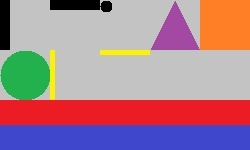
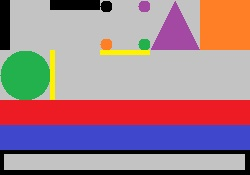
custom message

diff --git a/game.js b/game.js
@@ -6,12 +6,17 @@ var drawingSurface = canvas.getContext("2d");
 var sprites = [];
 var missiles = [];
 var assetsToLoad = [];
+var manaSprites = [];
 
 
 
 
 sprites.push(line);
-
+manaSprites.push(mana);
+manaSprites.push(mbTop);
+manaSprites.push(mbBottom);
+manaSprites.push(mbLeft);
+manaSprites.push(mbRight);
 
 
 var image = new Image();
@@ -62,12 +67,17 @@ window.addEventListener("keydown", function(event)
     break;
 
     case SPACE:
+    if (mana.swx < 25)
+    {
+      break;
+    }
     if (!moveDown && !moveUp && !moveLeft && !moveRight)
     {
       break;
     }
     if(!spaceKeyIsDown)
     {
+      mana.swx = mana.swx - 25;
       lineShoot = true;
       spaceKeyIsDown = true;
 
@@ -76,12 +86,17 @@ window.addEventListener("keydown", function(event)
     break;
 
     case Z:
+    if (mana.swx < 100)
+    {
+      break;
+    }
     if (!moveDown && !moveUp && !moveLeft && !moveRight)
     {
       break;
     }
     if(!zIsDown)
     {
+      mana.swx = mana.swx - 100;
       lineShoot = true;
       zIsDown = true;
 
@@ -89,8 +104,13 @@ window.addEventListener("keydown", function(event)
     break;
 
     case X:
+    if (mana.swx < 100)
+    {
+      break;
+    }
     if (!xIsDown)
     {
+      mana.swx = mana.swx - 100;
       lineShoot = true;
       xIsDown = true;
     }
@@ -370,8 +390,13 @@ for(var i = 0; i < missiles.length; i++)
 }
 
 }
-
-
+function manaIncrease(){
+  if (mana.swx < 250)
+  {
+  mana.swx++;
+  }
+}
+setInterval(manaIncrease, 40);
 
 function update()
 {
@@ -391,6 +416,7 @@ switch(gameState)
   endGame();
   break;
 
+
 }
 
 function render()
@@ -402,6 +428,18 @@ function render()
     for (var i = 0; i < sprites.length; i++)
     {
       var sprite = sprites[i];
+
+
+      drawingSurface.drawImage(image, sprite.sx, sprite.sy, sprite.swx, sprite.swy, sprite.x, sprite.y, sprite.swx, sprite.swy);
+    }
+
+  }
+
+  if(manaSprites.length !== 0)
+  {
+    for (var i = 0; i < manaSprites.length; i++)
+    {
+      var sprite = manaSprites[i];
 
 
       drawingSurface.drawImage(image, sprite.sx, sprite.sy, sprite.swx, sprite.swy, sprite.x, sprite.y, sprite.swx, sprite.swy);

diff --git a/objects.js b/objects.js
@@ -9,5 +9,71 @@ swy: 50,
 vx:0,
 vy:0,
 x: 0,
-y: 0,
+y: 100,
+}
+
+var mana =
+{
+  width: 250,
+  height: 25,
+  sx: 0,
+  sy: 125,
+  swx: 250,
+  swy: 25,
+  vx:0,
+  vy:0,
+  x: 0,
+  y: 0,
+}
+
+var mbTop = {
+  width: 250,
+  height: 5,
+  sx: 0,
+  sy: 150,
+  swx: 250,
+  swy: 5,
+  vx:0,
+  vy:0,
+  x: 0,
+  y: 0,
+}
+
+var mbBottom = {
+  width: 250,
+  height: 5,
+  sx: 0,
+  sy: 170,
+  swx: 250,
+  swy: 5,
+  vx:0,
+  vy:0,
+  x: 0,
+  y: 20,
+}
+
+var mbLeft = {
+  width: 5,
+  height: 25,
+  sx: 0,
+  sy: 150,
+  swx: 5,
+  swy: 25,
+  vx:0,
+  vy:0,
+  x: 0,
+  y: 0,
+}
+
+var mbRight = {
+  width: 5,
+  height: 25,
+  sx: 245,
+  sy: 150,
+  swx: 5,
+  swy: 25,
+  vx:0,
+  vy:0,
+  x: 245,
+  y: 0,
 }
